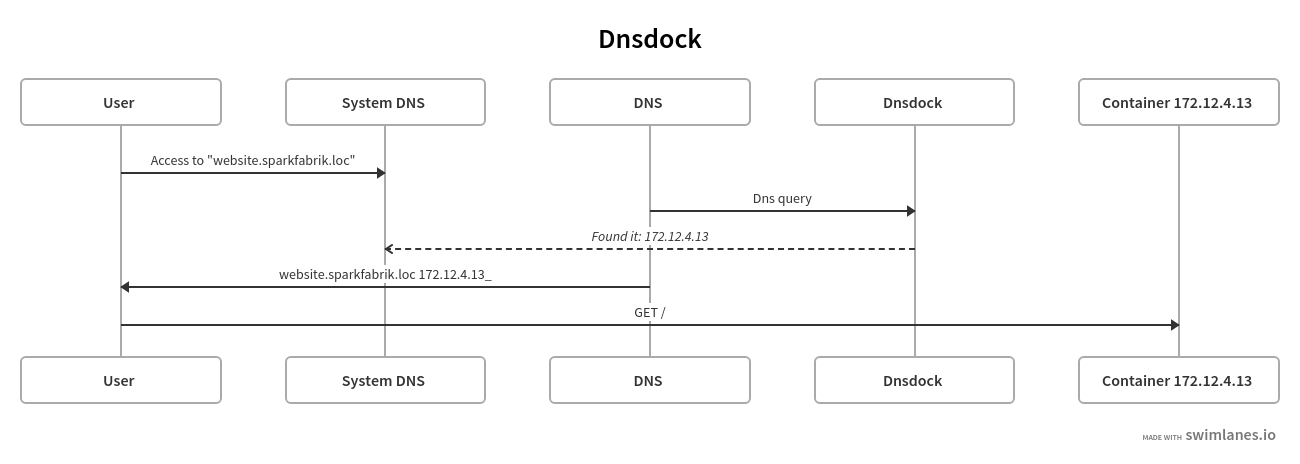
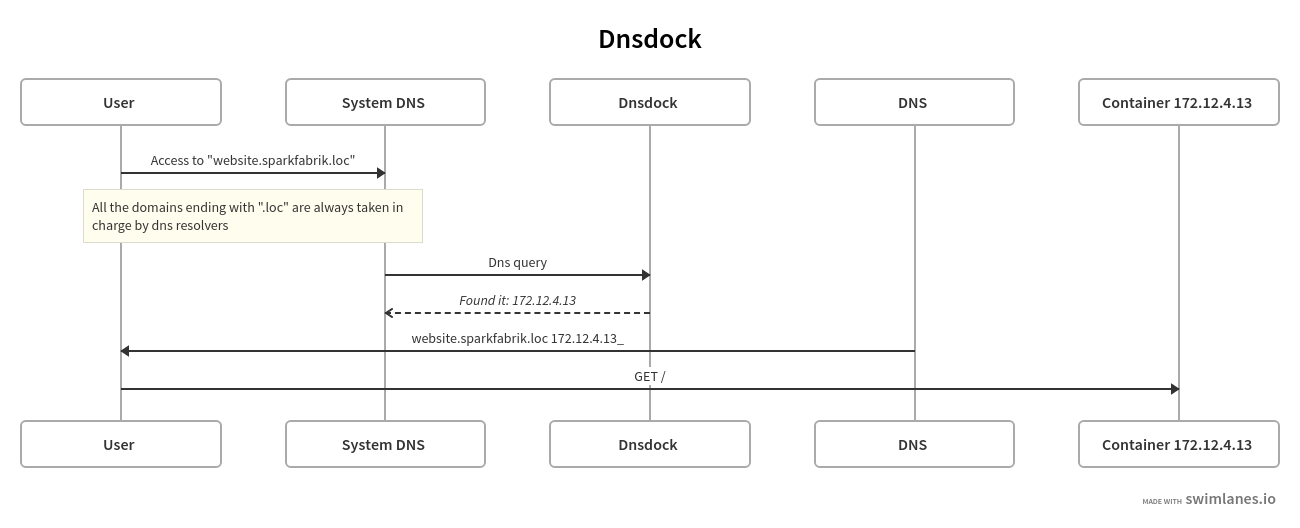
refs platform/1305: Refactor local dev page

diff --git a/content/guides/local-development-environment-configuration.md b/content/guides/local-development-environment-configuration.md
@@ -66,7 +66,11 @@ title: Dnsdock
 
 User -> System DNS: Access to "website.sparkfabrik.loc"
 
-DNS -> Dnsdock: Dns query
+note:
+
+All the domains ending with ".loc" are always taken in charge by dns resolvers
+
+System DNS -> Dnsdock: Dns query
 
 Dnsdock -->> System DNS: _Found it: 172.12.4.13_
 
